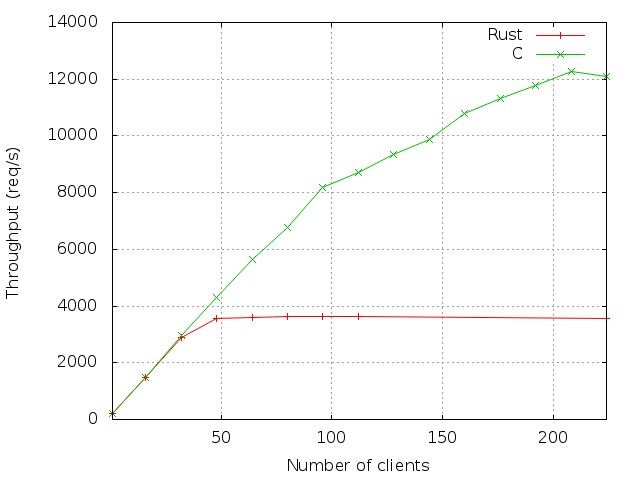
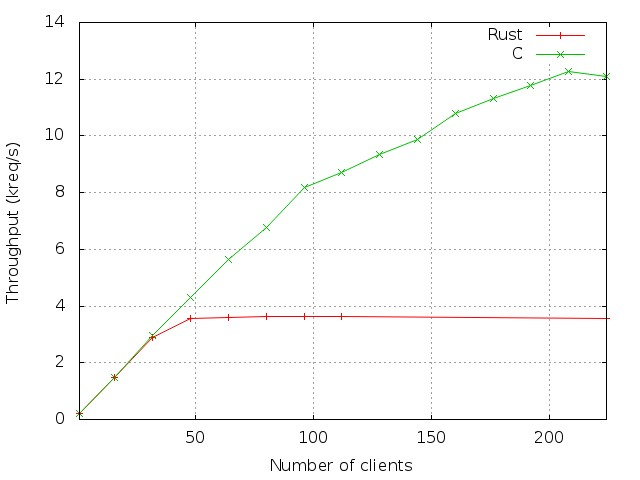
do not forget to add the files

diff --git a/evaluation/README.md b/evaluation/README.md
@@ -6,7 +6,7 @@ In this document we present a performance analysis of the Rust and C implementat
 Experimental settings
 ---------------------
 
-We evaluate the performance of the servers on a cluster composed of 15 identical machines. These machines host two quad-core Intel Xeon E5440 clocked at 2.83GHz, 8GB of RAM and an Hitachi HDT72502 of 250GB running at 7200rpm. They are all connected via a Gigabit network. They run a Linux kernel 3.2 and embed gcc v4.4.5 and Rust v0.6. One machine acts as the server, while the other ones act as clients.
+We evaluate the performance of the servers on a cluster composed of 17 identical machines. These machines host two quad-core Intel Xeon E5440 clocked at 2.83GHz, 8GB of RAM and an Hitachi HDT72502 of 250GB running at 7200rpm. They are all connected via a Gigabit network. They run a Linux kernel 3.2 and embed gcc v4.4.5 and Rust v0.6. One machine acts as the server, while the other ones act as clients.
 
 We configure several kernel parameters to get the best performance :
 
@@ -45,17 +45,33 @@ Throughput with requests of 1kiB
 --------------------------------
 
 In this section we present the performance of the two implementations. The servers pool size is 1 and the files size is 1kiB.
-Figure ![Throughput with requests of 1kiB](plot1kiB.jpeg) shows the throughput (in terms of served requests per second) for both implementation as a function of the number of clients.
+
+![Throughput with requests of 1kiB](plot1kiB.jpeg)
+
+The following figure shows the throughput (in terms of served requests per second) for both implementation as a function of the number of clients.
 We observe that, up to 32 clients, both implementation provide the same performance.
 Moreover, the C implementation performance increases almost linearly, for a peak throughput of 12.2kreq/s, while the Rust implementation peak throughput is reached with only 48 clients, for a throughput of 3.6kreq/s.
 Finally, the C implementation outerpforms the Rust implementation by a factor of 3.4.
 
-One difference between both implementation is the usage of mmap to read files. We suppose that the Rust bad performance could be related to not using mmap. As a consequence we run an experiment where the Rust web server does not read files on disk. Instead, it sends a pre-allocated vector of bytes to the client. We observed a small performance increase: from 3.6kreq/s to 4kreq/s (+11%). We conclude that the bad performance of the web server is not (entirely) due to how files are read.
+One difference between both implementation is the usage of mmap to read files. We suppose that the Rust bad performance could be related to not using mmap. As a consequence we run an experiment where the Rust web server does not read files on disk. Instead, it sends a pre-allocated vector of bytes to the client. We observe a small performance increase: from 3.6kreq/s to 4kreq/s (+11%). We conclude that the bad performance of the Rust web server is not (entirely) due to how files are read.
+
+On another experiment, we deactivate TCP No delay on the C server. The peak throughput is 11.5kreq/s. We conclude the bad performance of the Rust web server is not due to the absence of TCP no delay.
+
+
+Throughput with requests of 100kiB
+--------------------------------
+
+In this section we present the performance of the two implementations. The servers pool size is 1 and the files size is 100kiB.
+
+![Throughput with requests of 100kiB](plot1k00iB.jpeg)
+
+The following figure shows the throughput (in terms of served requests per second) for both implementation as a function of the number of clients.
+We observe that the performance of the Rust implementation is better than the C implementation: the peak throughputs are respectively 3.9kreq/s and 1kreq/s. This is an increase by a factor of 3.9.
+We attribute this performance difference to the design of the C web server: there is an acceptor thread and a processing thread, which communicate via a shared queue.
 
 
 Conclusions
 -----------
 
-As we have seen, the C implementation outperforms the Rust implementation by a factor of 3.4 for files of 1kB. We suppose this performance difference is due to Rust internals (either the compiler, the event-processing loop or the tasks scheduler).
-
-We would like to have a Rust profiler in order to understand this performance problem.
+As we have seen, the C implementation outperforms the Rust implementation by a factor of 3.4 for files of 1kiB. We attribute this performance difference to Rust internals (either the compiler, the event-processing loop, or the tasks scheduler).
+However, this is not the case with files of 100kiB: this time the Rust implementation is better by a factor of 3.9. We attribute this performance difference to a bad design for the C web server.
